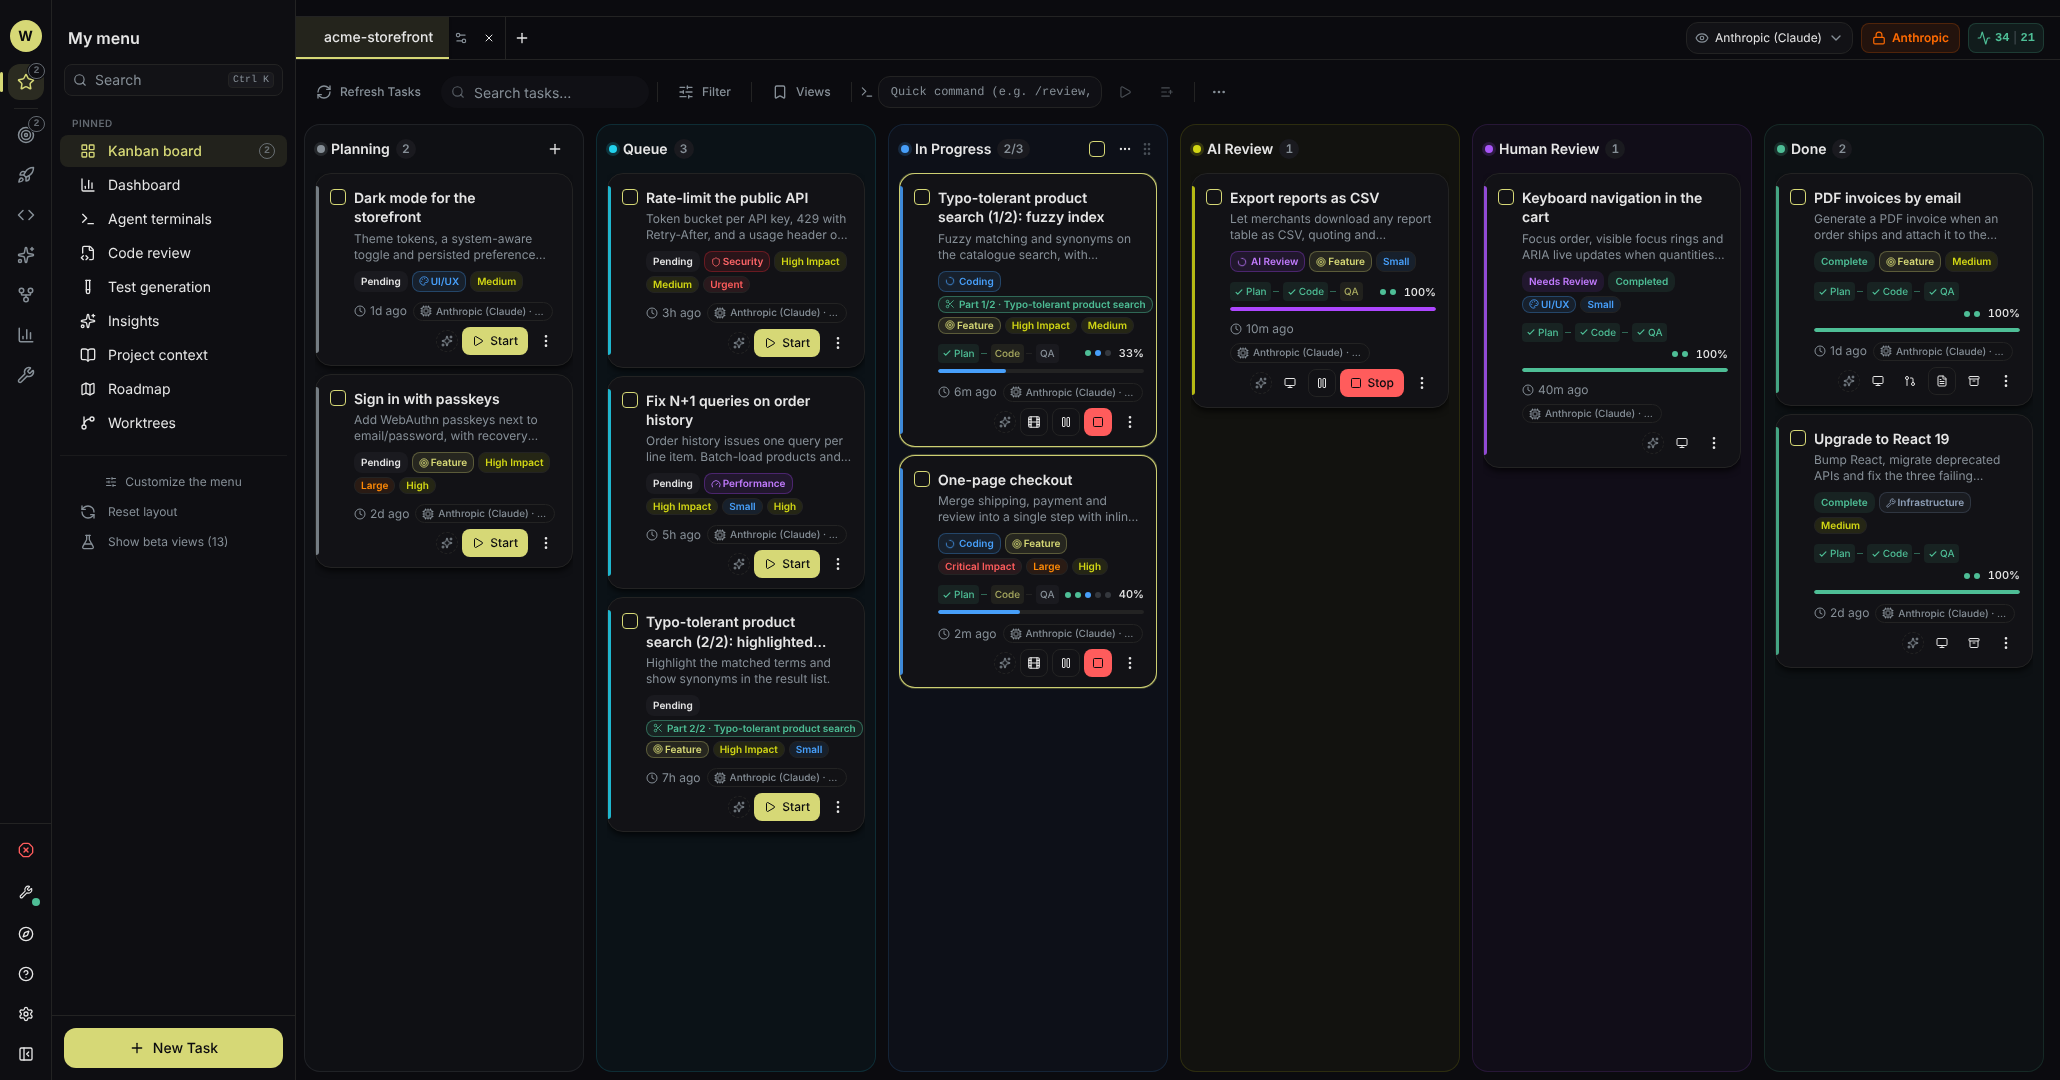
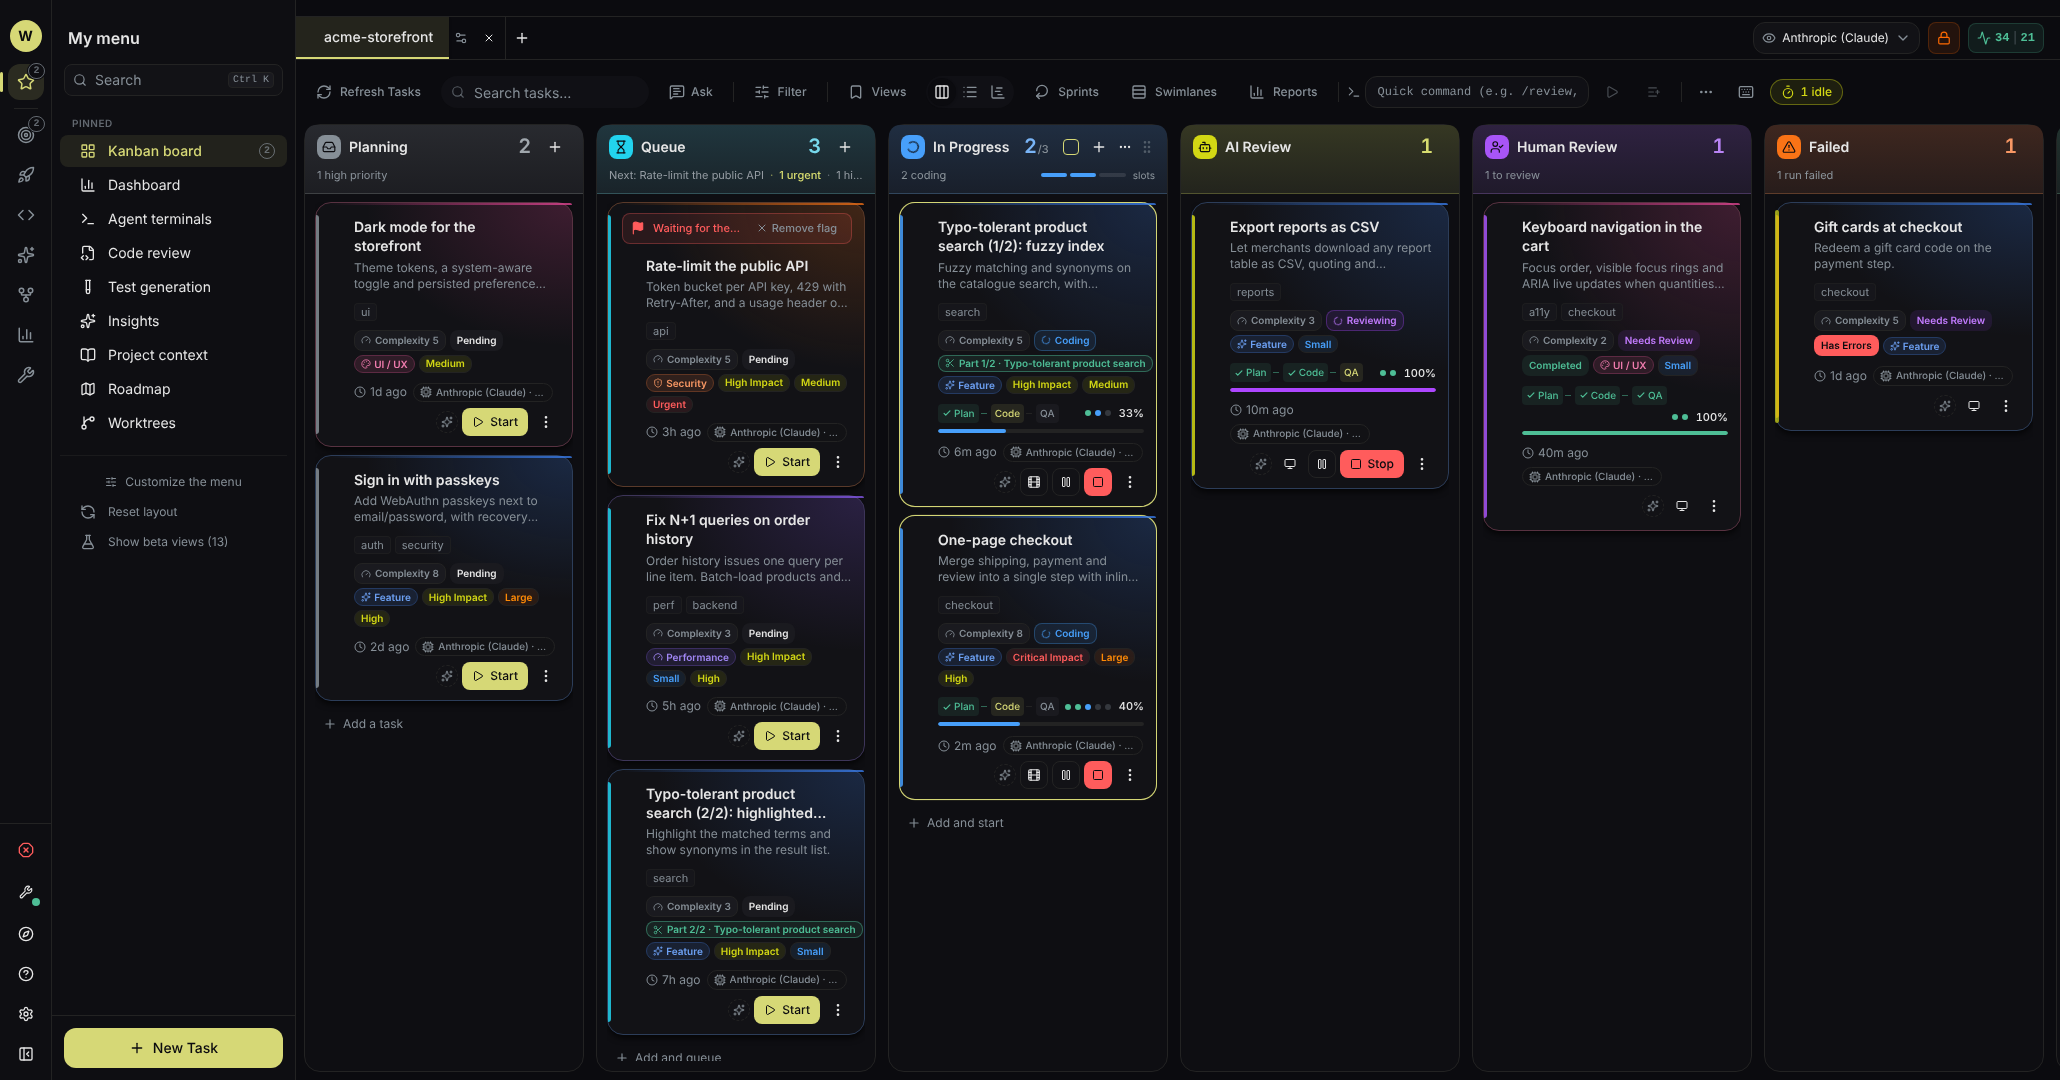
docs: the agile Kanban in the READMEs, FEATURES and the wiki, with new screenshots
The demo project gains sprints, labels, points, status history, a
blocked, a failed and an abandoned task, so the capture script shows the
lanes, the list, the timeline and the reports. Wiki patch 0017 adds the
agile board to User-Interface (EN and FR).

Claude-Session: https://claude.ai/code/session_01JePLCRiVVPLNLnNcgNsFd4

diff --git a/scripts/readme-screenshots/demo-data.js b/scripts/readme-screenshots/demo-data.js
@@ -367,6 +367,178 @@
 		},
 	].map((t) => ({ projectId: PROJECT, ...t }));
 
+	// --- Agile board: sprints, labels, points, status history -----------------
+	// What the list, the timeline and the reports read (docs/architecture/kanban-*.md).
+	const midnight = (days) => {
+		const d = new Date(now - days * day);
+		return d.toISOString().slice(0, 10);
+	};
+	const SPRINT_ACTIVE = "sp-0000000c";
+	const SPRINT_NEXT = "sp-0000000d";
+	const sprints = [
+		{
+			id: SPRINT_ACTIVE,
+			name: "Sprint 12",
+			state: "active",
+			goal: "Checkout and search ready for the sale",
+			createdAt: ago(12 * day).toISOString(),
+			startDate: midnight(6),
+			endDate: midnight(-8),
+			startedAt: ago(6 * day).toISOString(),
+		},
+		{
+			id: SPRINT_NEXT,
+			name: "Sprint 13",
+			state: "planned",
+			createdAt: ago(2 * day).toISOString(),
+			startDate: midnight(-8),
+			endDate: midnight(-22),
+		},
+		...[
+			["sp-0000000b", "Sprint 11", 20, 7, 24],
+			["sp-0000000a", "Sprint 10", 34, 21, 19],
+			["sp-00000009", "Sprint 9", 48, 35, 22],
+		].map(([id, name, start, end, points]) => ({
+			id,
+			name,
+			state: "closed",
+			createdAt: ago((start + 2) * day).toISOString(),
+			startDate: midnight(start),
+			endDate: midnight(end + 1),
+			startedAt: ago(start * day).toISOString(),
+			closedAt: ago(end * day).toISOString(),
+			report: { done: Math.round(points / 4), donePoints: points, carried: 1, carriedPoints: 3, carriedTo: null },
+		})),
+	];
+	const estimate = (points) => ({ complexityScore: points, confidenceLevel: 0.8, riskFactors: [] });
+	const move = (from, to, days) => ({ from, to, at: ago(days * day).toISOString(), actor: "agent" });
+	const agile = {
+		"t-01": { labels: ["auth", "security"], sprintId: SPRINT_NEXT, points: 8 },
+		"t-02": { labels: ["ui"], points: 5 },
+		"t-03": { labels: ["perf", "backend"], sprintId: SPRINT_ACTIVE, points: 3 },
+		"t-04": {
+			labels: ["api"],
+			sprintId: SPRINT_ACTIVE,
+			points: 5,
+			flag: "Waiting for the gateway's new quota",
+		},
+		"t-05": { labels: ["checkout"], sprintId: SPRINT_ACTIVE, points: 8, history: [move("queue", "in_progress", 4)] },
+		"t-06": { labels: ["search"], sprintId: SPRINT_ACTIVE, points: 5, history: [move("queue", "in_progress", 2)] },
+		"t-06b": { labels: ["search"], sprintId: SPRINT_ACTIVE, points: 3 },
+		"t-07": {
+			labels: ["reports"],
+			points: 3,
+			history: [move("queue", "in_progress", 5), move("in_progress", "ai_review", 1)],
+		},
+		"t-08": {
+			labels: ["a11y", "checkout"],
+			sprintId: SPRINT_ACTIVE,
+			points: 2,
+			history: [move("queue", "in_progress", 6), move("in_progress", "human_review", 3)],
+		},
+		"t-09": {
+			labels: ["email"],
+			sprintId: SPRINT_ACTIVE,
+			points: 5,
+			history: [move("queue", "in_progress", 9), move("in_progress", "done", 1)],
+		},
+		"t-10": {
+			labels: ["deps"],
+			sprintId: SPRINT_ACTIVE,
+			points: 3,
+			history: [move("queue", "in_progress", 12), move("in_progress", "done", 2)],
+		},
+	};
+	for (const task of tasks) {
+		const extra = agile[task.id];
+		if (!extra) continue;
+		task.metadata = {
+			...task.metadata,
+			labels: extra.labels,
+			...(extra.sprintId && { sprintId: extra.sprintId }),
+			smartEstimate: estimate(extra.points),
+			...(extra.flag && { flagged: true, flaggedReason: extra.flag, flaggedAt: ago(day).toISOString() }),
+		};
+		task.statusHistory = [move(null, "backlog", 14), ...(extra.history || [])];
+	}
+	// Earlier finished work, for the cycle time, the throughput and the flow.
+	const DONE_BEFORE = [
+		["004-guest-cart", "Keep the guest cart after sign-in", 26, 22],
+		["005-sitemap", "Sitemap for product pages", 24, 23],
+		["006-coupons", "Stackable coupons", 21, 15],
+		["007-webhooks", "Order webhooks for the ERP", 18, 13],
+		["008-images", "Responsive product images", 15, 12],
+		["009-returns", "Self-service returns", 12, 6],
+		["010-vat", "VAT by country at checkout", 10, 8],
+		["011-wishlist", "Share a wishlist", 8, 4],
+	];
+	DONE_BEFORE.forEach(([specId, title, started, finished], index) => {
+		tasks.push({
+			projectId: PROJECT,
+			id: `t-done-${index}`,
+			specId,
+			title,
+			description: title,
+			status: "done",
+			subtasks: [],
+			logs: [],
+			metadata: {
+				category: "feature",
+				priority: "medium",
+				labels: [index % 2 ? "checkout" : "catalog"],
+				sprintId: finished < 6 ? SPRINT_ACTIVE : finished < 20 ? "sp-0000000b" : "sp-0000000a",
+				smartEstimate: estimate([3, 5, 8][index % 3]),
+			},
+			statusHistory: [
+				move(null, "backlog", started + 3),
+				move("queue", "in_progress", started),
+				move("in_progress", "done", finished),
+			],
+			createdAt: ago((started + 3) * day),
+			updatedAt: ago(finished * day),
+		});
+	});
+	// Two ends without success: the « Échec » and « Abandonnée » columns.
+	tasks.push(
+		{
+			projectId: PROJECT,
+			id: "t-11",
+			specId: "017-gift-cards",
+			title: "Gift cards at checkout",
+			description: "Redeem a gift card code on the payment step.",
+			status: "human_review",
+			reviewReason: "errors",
+			subtasks: [],
+			logs: [],
+			metadata: { category: "feature", priority: "medium", labels: ["checkout"], sprintId: SPRINT_ACTIVE, smartEstimate: estimate(5) },
+			statusHistory: [move(null, "backlog", 9), move("queue", "in_progress", 3), move("in_progress", "human_review", 1)],
+			createdAt: ago(9 * day),
+			updatedAt: ago(day),
+		},
+		{
+			projectId: PROJECT,
+			id: "t-12",
+			specId: "003-legacy-coupons",
+			title: "Port the legacy coupon engine",
+			description: "Replaced by the stackable coupons task.",
+			status: "backlog",
+			subtasks: [],
+			logs: [],
+			metadata: {
+				category: "refactoring",
+				priority: "low",
+				labels: ["checkout"],
+				abandoned: true,
+				abandonedAt: ago(5 * day).toISOString(),
+				abandonedResolution: "duplicate",
+				abandonedReason: "Covered by « Stackable coupons »",
+			},
+			statusHistory: [move(null, "backlog", 30)],
+			createdAt: ago(30 * day),
+			updatedAt: ago(5 * day),
+		},
+	);
+
 	// --- Roadmap -------------------------------------------------------------
 	const feat = (
 		id,
@@ -821,6 +993,9 @@
 			data: tasks.filter((t) => t.projectId === projectId),
 		}),
 		getRoadmap: ok(roadmap),
+		listSprints: ok(sprints),
+		// A namespace, not a method: the preview's catch-all answers only methods.
+		serverUsage: { notePageVisit: () => undefined },
 		getIdeation: ok(ideation),
 		getInsightsSession: ok(insightsSession),
 		listInsightsSessions: ok(insightsSessions),

diff --git a/README.fr.md b/README.fr.md
@@ -99,6 +99,35 @@ Installation pas à pas, configuration des providers, notes Windows et dépannag
 
 **Tableau Kanban** (ci-dessus) : décrivez une tâche et suivez-la de la planification jusqu'à la pull request. Chaque carte montre sa phase, son avancement, le provider au travail et son sujet ; les parties d'une tâche découpée partagent une couleur et une marque « Partie k/N ». Les colonnes suivent le pipeline : Planification, File d'attente, En cours, Révision IA, Révision humaine, PR ouverte (tant qu'une pull request attend sa fusion), Terminé, plus Build rouge quand la CI du projet échoue sur la branche d'une tâche. La barre d'outils tient sur une ligne ; son menu « ⋯ » contient **Multi-dépôts** (un changement sur plusieurs dépôts) et **Purger** (libère la place prise par les worktrees des cartes terminées).
 
+**Tableau agile, comme Jira** ([sprints](docs/architecture/kanban-sprints.md), [couloirs](docs/architecture/kanban-swimlanes.md), [liste](docs/architecture/kanban-list-view.md), [frise](docs/architecture/kanban-timeline.md), [rapports](docs/architecture/kanban-reports.md)) : les tâches qui finissent sans succès ont leurs colonnes, **Échec** et **Abandonnée** (avec la raison : doublon, ne sera pas fait, PR fermée…), et une tâche peut être marquée **Bloquée** avec ce qui la bloque. Planifiez en **sprints** (démarrage, clôture avec report, points issus de Smart Estimation, jamais une durée), coupez le tableau en **couloirs** par sprint, sous-projet, priorité, type, source ou tâche parente, et passez de **Tableau** à **Liste** (colonnes triables) ou **Frise** (chaque tâche de son début à sa fin, les sprints en tête). Les **Rapports** tracent le burndown, la vélocité, le flux cumulé, le temps de cycle, le débit et les fins non abouties. **Étiquettes**, filtres rapides (Bloquées, Modifiées cette semaine, Mes tâches sur un serveur d'équipe) et vues enregistrées gardent le tableau lisible ; les tâches terminées peuvent s'archiver d'elles-mêmes après 7, 14 ou 30 jours.
+
+<table>
+<tr>
+<td width="50%" valign="top">
+
+![Couloirs par sprint : le couloir des tâches bloquées en premier, puis le Sprint 12 avec ses colonnes](.github/assets/showcase/kanban-lanes.png)
+
+</td>
+<td width="50%" valign="top">
+
+![Vue liste par sprint : statut, priorité, sprint, sous-projet, points et dernière mise à jour](.github/assets/showcase/kanban-list.png)
+
+</td>
+</tr>
+<tr>
+<td valign="top">
+
+![Frise : une barre par tâche du début à la fin, la ligne du jour et les dates des sprints](.github/assets/showcase/kanban-timeline.png)
+
+</td>
+<td valign="top">
+
+![Rapports : le burndown du Sprint 12, points restants face à la ligne idéale](.github/assets/showcase/kanban-reports.png)
+
+</td>
+</tr>
+</table>
+
 <table>
 <tr>
 <td width="50%" valign="top">
@@ -227,6 +256,7 @@ La liste complète, avec chaque détail, est dans **[docs/FEATURES.md](docs/FEAT
 
 **Pipeline de construction**
 - **Tableau Kanban** avec approbation de la spec, pause et reprise, relance par phase, messages de pilotage pendant que l'agent travaille, et une revue guidée avec des commentaires de ligne renvoyés au fixer ; des diffs aux couleurs de git, colorés selon le langage pour chaque stack, mots modifiés surlignés et disposition côte à côte « Auto ».
+- **Tableau agile** : colonnes Échec et Abandonnée, drapeau Bloquée, sprints avec points, couloirs, affichages Tableau / Liste / Frise, rapports (burndown, vélocité, flux cumulé, temps de cycle, débit, fins non abouties), étiquettes, filtres rapides et archivage auto, en local comme en mode serveur.
 - Le **mode Essaim** construit côte à côte les sous-tâches que le plan permet, chacune dans son propre worktree, fusionnées dans la branche de la tâche après chaque vague.
 - **Découpage automatique** des grosses tâches en petites PR groupées, **tâches empilées**, **Best-of-N** (construire une tâche 2 à 4 fois sur des moteurs différents et garder la meilleure, avec un arbitre quand les variantes ne font pas la même chose) et changements **multi-dépôts**, sur le provider, le modèle et l'effort choisis pour eux.
 - L'**essai à blanc** rejoue le plan d'une spec sur la branche de base avant le build ; après la QA, un agent **red team** essaie de casser ce que la tâche a construit, et la **garde des migrations** dit ce que les migrations de la tâche feraient à une base en production, pour toutes les stacks.

diff --git a/README.md b/README.md
@@ -97,6 +97,35 @@ Step-by-step installation, provider setup, Windows notes and troubleshooting: [d
 
 **Kanban board** (above): describe a task and follow it from planning to the pull request. Each card shows its phase, its progress, the provider at work and what it is about; the parts of a split task share a colour and a « Part k/N » mark. Columns follow the pipeline: Planning, Queue, In Progress, AI Review, Human Review, Open PR (while a pull request waits to be merged), Done, plus Red Build when the project's CI fails on a task branch. The toolbar holds on one line; its « ⋯ » menu has **Multi-repo** (one change across several repositories) and **Purge** (frees the disk space held by the worktrees of finished cards).
 
+**Agile board, as in Jira** ([sprints](docs/architecture/kanban-sprints.md), [swimlanes](docs/architecture/kanban-swimlanes.md), [list](docs/architecture/kanban-list-view.md), [timeline](docs/architecture/kanban-timeline.md), [reports](docs/architecture/kanban-reports.md)): tasks that end without success get their own columns, **Failed** and **Abandoned** (with why: duplicate, won't do, PR closed…), and a task can be flagged **Blocked** with its reason. Plan in **sprints** (start, close with carry-over, points from Smart Estimation, never a duration), cut the board into **swimlanes** by sprint, sub-project, priority, type, source or parent, and switch between **Board**, **List** (sortable columns) and **Timeline** (each task from its start to its end, the sprints along the top). **Reports** draw the burndown, velocity, cumulative flow, cycle time, throughput and unsuccessful ends. **Labels**, quick filters (Blocked, Changed this week, My tasks on a team server) and saved views keep a board readable; finished tasks can archive themselves after 7, 14 or 30 days.
+
+<table>
+<tr>
+<td width="50%" valign="top">
+
+![Swimlanes by sprint: the blocked lane pinned first, then Sprint 12 with its columns](.github/assets/showcase/kanban-lanes.png)
+
+</td>
+<td width="50%" valign="top">
+
+![List view grouped by sprint: status, priority, sprint, sub-project, points and last update](.github/assets/showcase/kanban-list.png)
+
+</td>
+</tr>
+<tr>
+<td valign="top">
+
+![Timeline: one bar per task from start to end, today's line and the sprints' dates](.github/assets/showcase/kanban-timeline.png)
+
+</td>
+<td valign="top">
+
+![Reports: the burndown of Sprint 12, points left against the ideal line](.github/assets/showcase/kanban-reports.png)
+
+</td>
+</tr>
+</table>
+
 <table>
 <tr>
 <td width="50%" valign="top">
@@ -225,6 +254,7 @@ The full list, with every detail, is in **[docs/FEATURES.md](docs/FEATURES.md)**
 
 **Build pipeline**
 - **Kanban board** with spec approval, pause and resume, per-phase re-run, steering messages while the agent works, and a guided review with line comments sent back to the fixer; diffs in git colours, with syntax highlighting for every stack, changed words marked and an Auto side-by-side layout.
+- **Agile board**: Failed and Abandoned columns, Blocked flag, sprints with points, swimlanes, Board / List / Timeline layouts, reports (burndown, velocity, cumulative flow, cycle time, throughput, unsuccessful ends), labels, quick filters and auto-archive, in local and server mode.
 - **Swarm mode** builds the subtasks a plan allows side by side, each in its own worktree, merged into the task's branch after each wave.
 - **Automatic split** of big tasks into small grouped PRs, **stacked tasks**, **Best-of-N** (build a task 2 to 4 times on different engines and keep the best, with an arbiter when the variants do not do the same thing) and **multi-repo** changes, on the provider, model and effort you pick for them.
 - **Plan rehearsal** replays a spec's plan over the base branch before the build; after QA, a **red team** agent tries to break what the task built, and the **migration guard** says what the task's migrations would do to a production database, for every stack.

diff --git a/docs/FEATURES.md b/docs/FEATURES.md
@@ -10,6 +10,7 @@ screenshots; the design of each feature is in [`architecture/`](architecture/).
 | Feature | Description |
 |---------|-------------|
 | **Kanban Board** | Visual task management from planning through completion with real-time agent progress |
+| **Agile board** | As in Jira: **Failed** and **Abandoned** columns (with the reason), the **Blocked** flag, **sprints** (start, close with carry-over, points from Smart Estimation, never a duration), **swimlanes** (sprint, sub-project, priority, type, source, parent), **Board / List / Timeline** layouts, **reports** (burndown, velocity, cumulative flow, cycle time, throughput, unsuccessful ends), **labels**, quick filters (Blocked, Changed this week, My tasks on a server), saved views and auto-archive of finished tasks. Local and server mode. See [docs/architecture/kanban-sprints.md](architecture/kanban-sprints.md), [kanban-reports.md](architecture/kanban-reports.md) |
 | **Multi-Agent Pipeline** | Planner → Coder → QA Reviewer → QA Fixer pipeline runs autonomously end-to-end |
 | **Parallel Execution** | Up to 12 simultaneous agent terminals for parallel builds |
 | **Isolated Workspaces** | Every task runs in a dedicated git worktree — your main branch stays safe |

diff --git a/scripts/README.md b/scripts/README.md
@@ -16,6 +16,7 @@ Une ligne par fichier et par dossier de `scripts/`, et rien d'autre :
 | `check_encoding.py` | Signale une ouverture de fichier sans `encoding="utf-8"`. | `tests/test_text_io_encoding.py`, à la main |
 | `validate-npm-scripts.js` | Vérifie que chaque script npm pointe vers un fichier qui existe. | `pnpm run validate:npm-scripts`, CI |
 | `fix-electron.js` | Répare le binaire Electron sous Windows. | `pnpm run fix:electron`, `beta-release.yml` |
+| `dev.mjs` | Choisit le port du backend (9000, `BACKEND_PORT`, ou le port libre suivant) puis lance le backend et l'app côte à côte. | `pnpm run dev` |
 | `sync-backend-port-to-frontend-env.cjs` | Recopie le port du backend dans le `.env` du frontend. | `dev:vite` et `build` du frontend |
 | `kill_port_8765.py`, `kill_port_8765.sh`, `kill_port_8765.bat` | Libèrent le port du WebSocket (8765) quand un ancien backend le tient. | à la main |
 

diff --git a/changelog.d/kanban-agile-docs.md b/changelog.d/kanban-agile-docs.md
@@ -1,0 +1,6 @@
+---
+section: 📚 Documentation
+---
+
+- **Kanban agile** : README EN/FR, FEATURES et wiki présentent le tableau agile (colonnes Échec et
+  Abandonnée, sprints, couloirs, liste, frise, rapports, étiquettes), avec quatre nouvelles captures.
